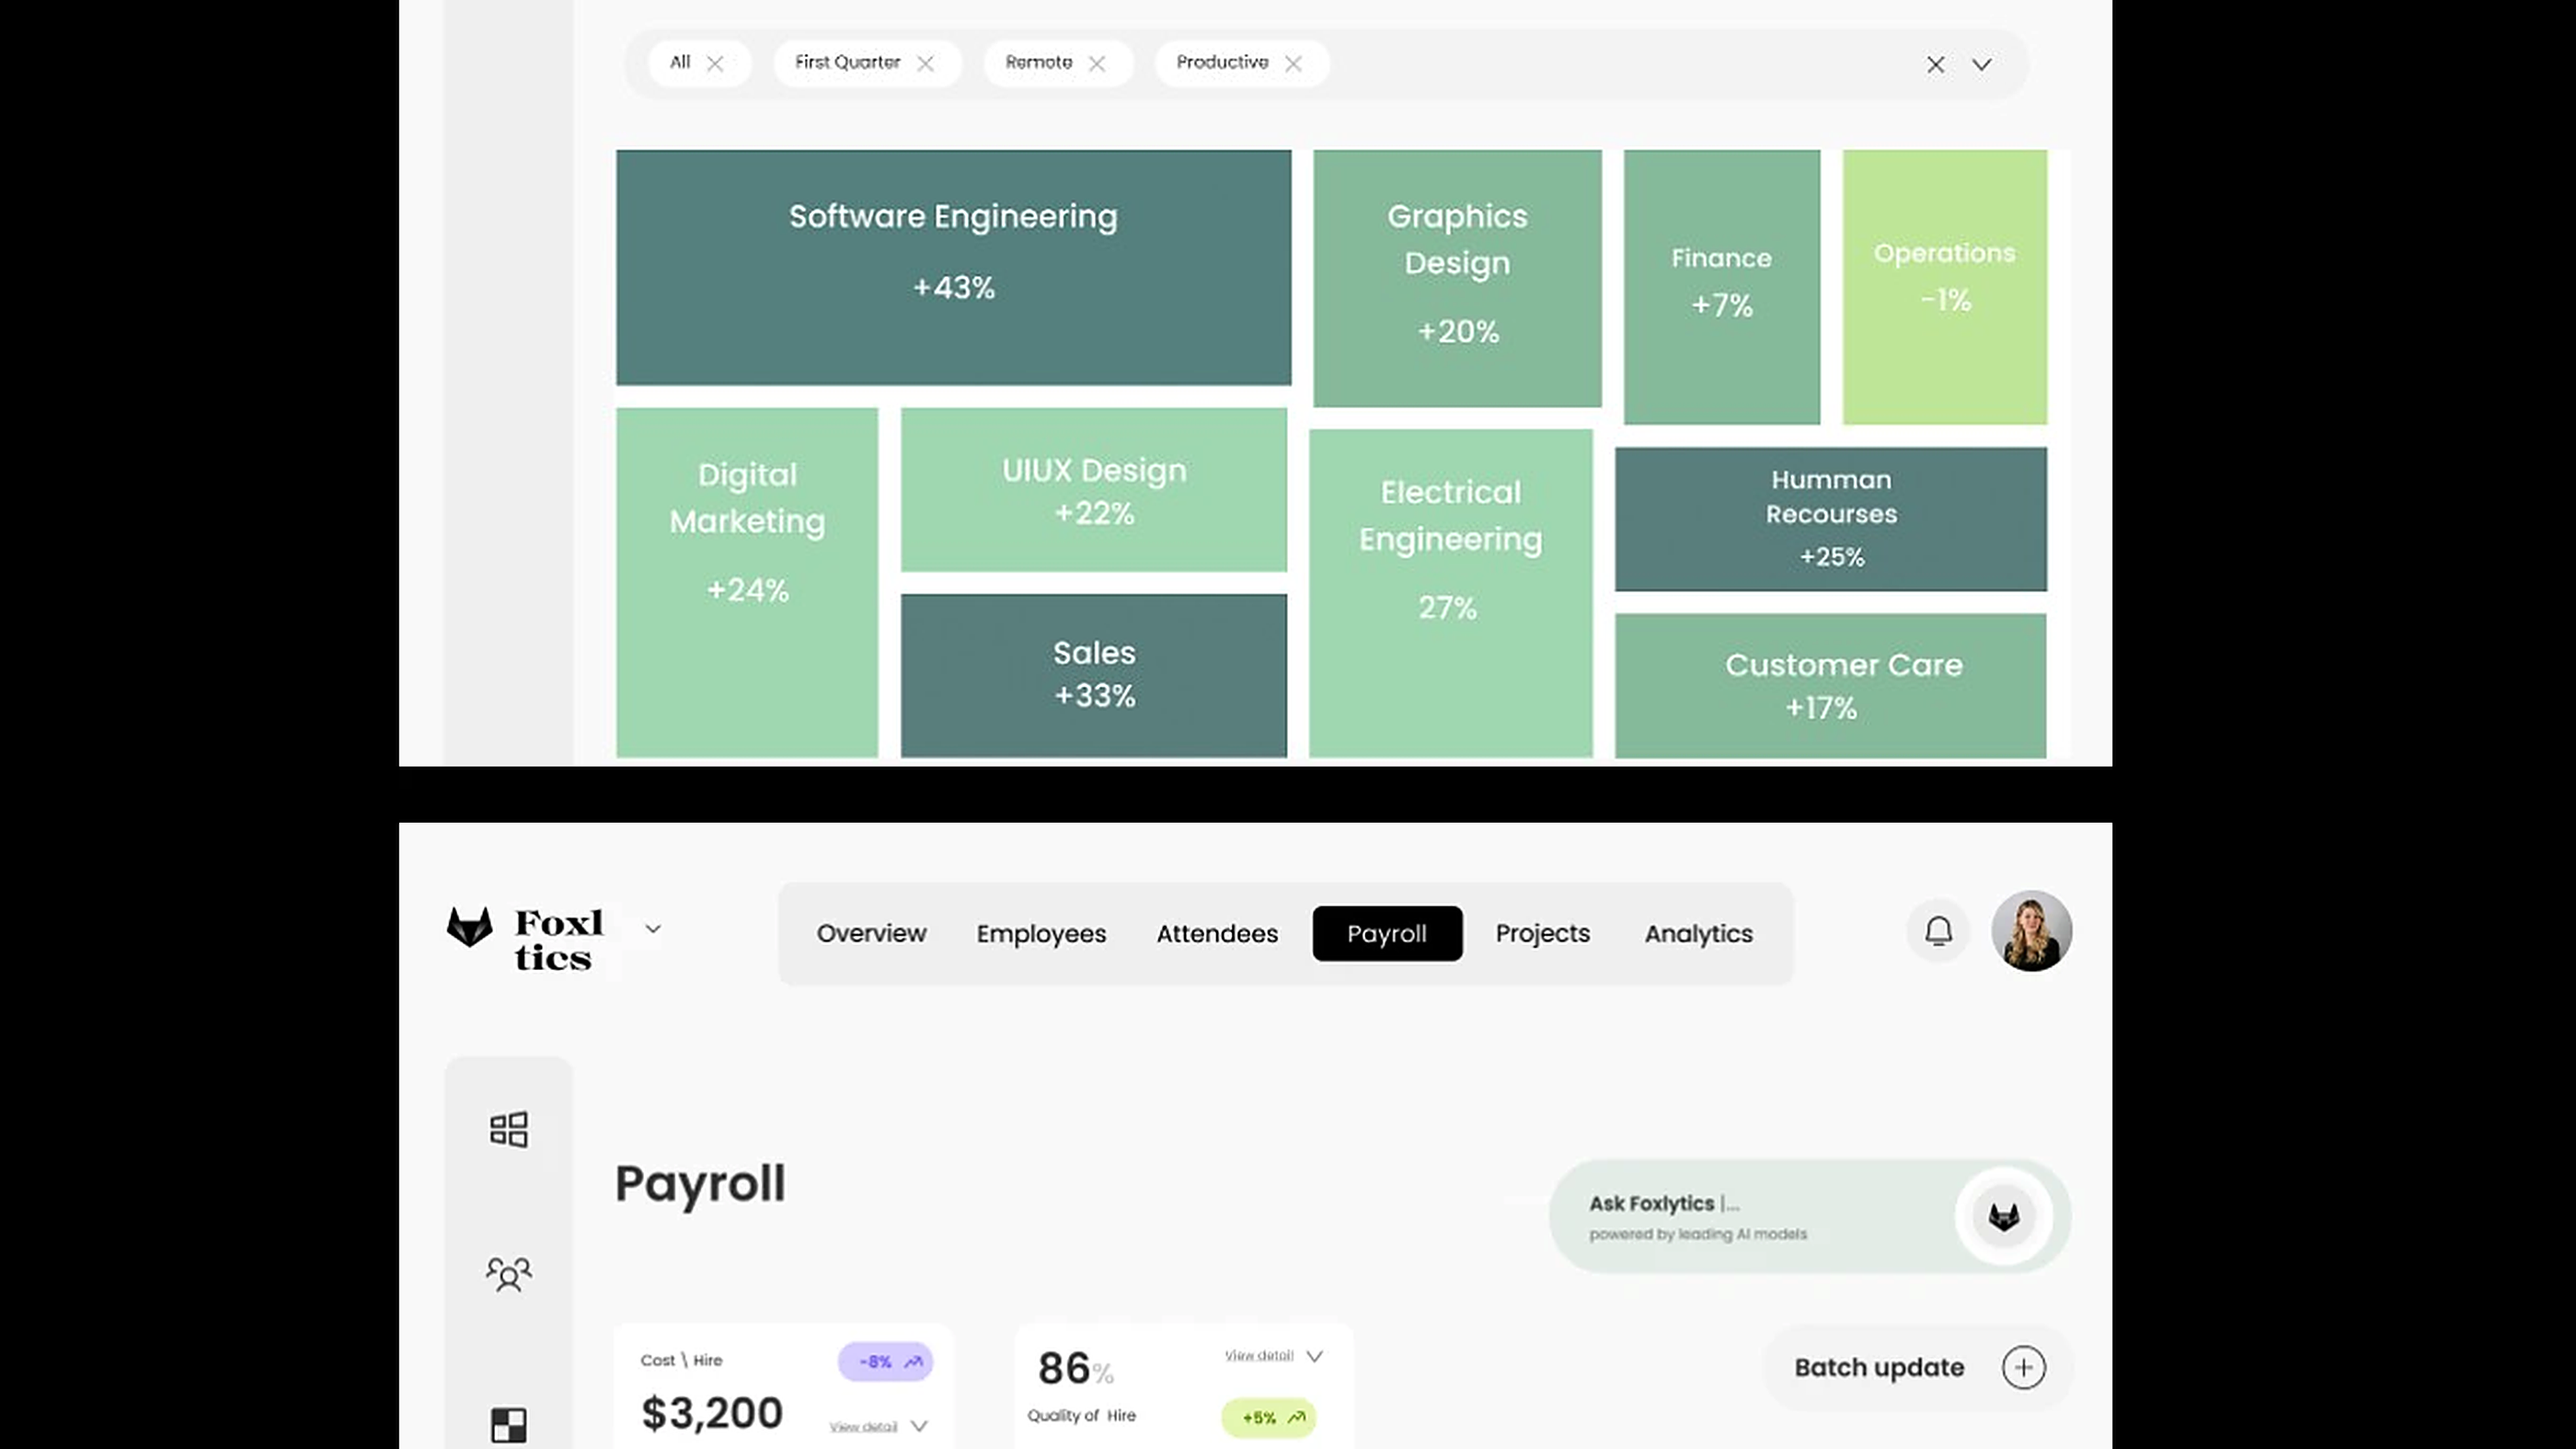
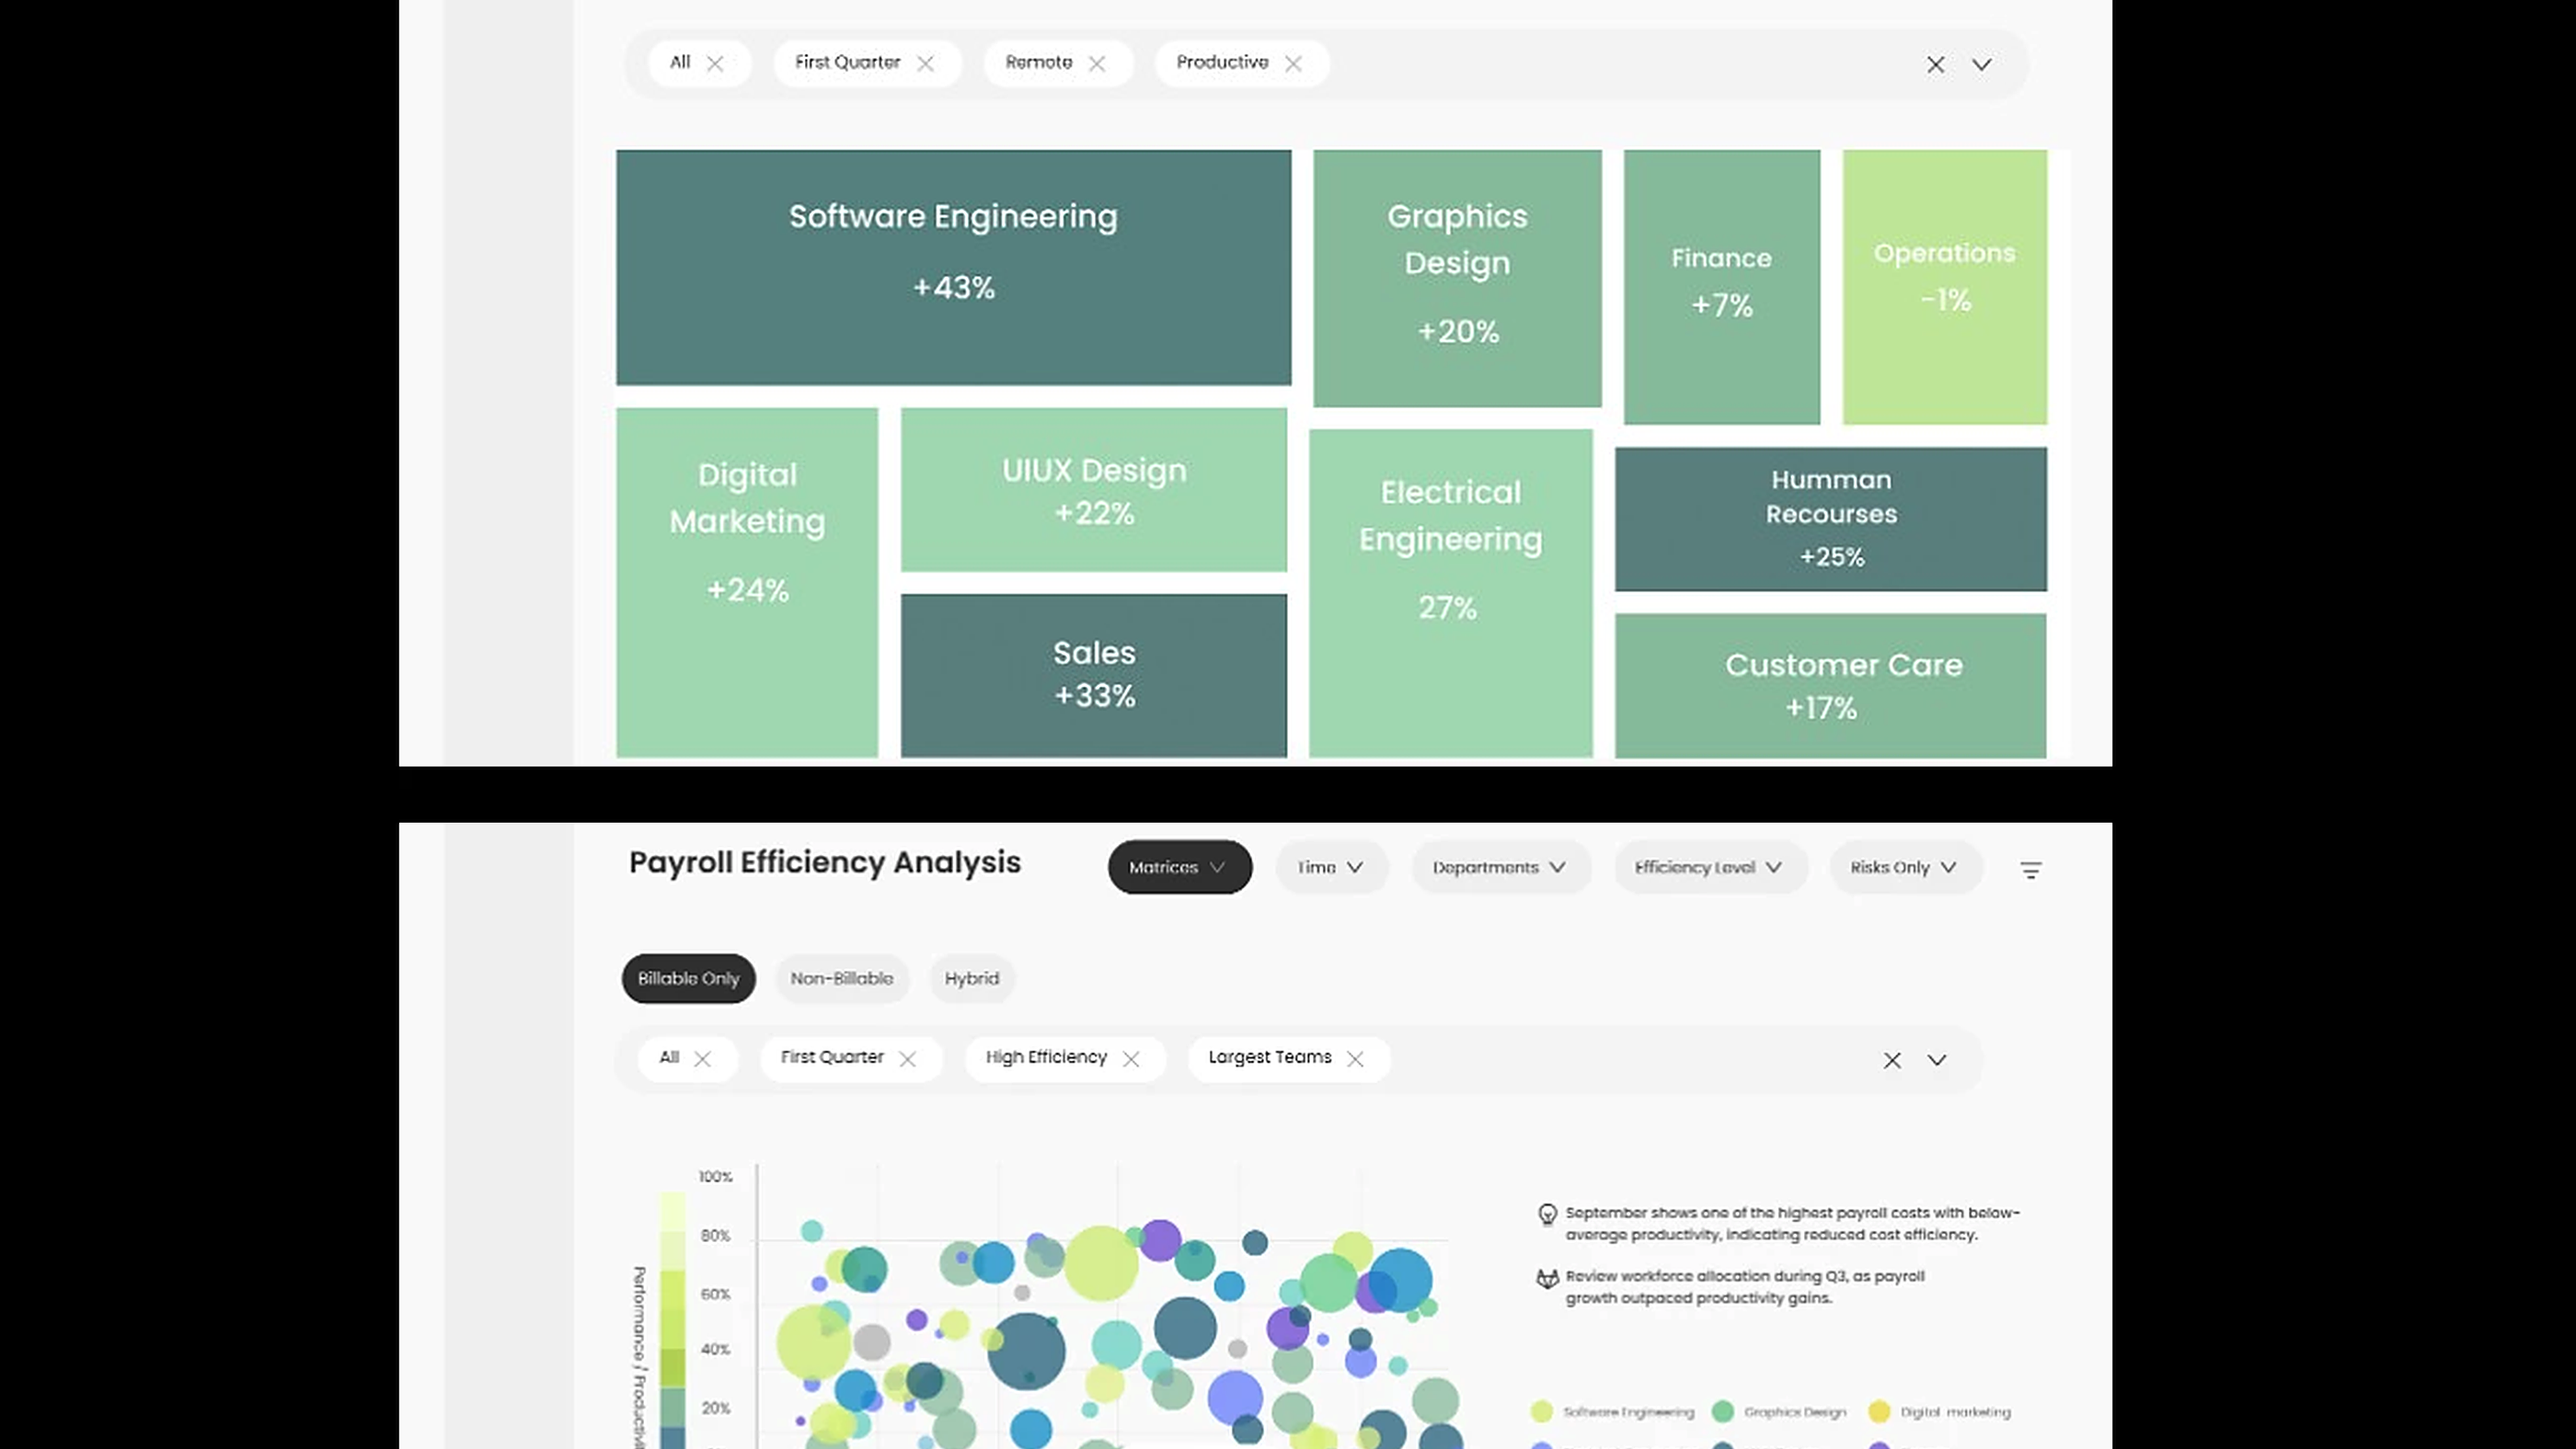
Stacked pages: bottom page now shows Payroll's first chart (efficiency analysis)
Claude-Session: https://claude.ai/code/session_01FdYAnoP1AuAPuCnLWf7gdc

diff --git a/behance-cover/mockups/set26.py b/behance-cover/mockups/set26.py
@@ -1,10 +1,10 @@
 # Two stacked web pages on black ("stack", 216): top page = Analytics from its Productive Heat Map,
-# bottom page = Payroll from the top (runs off the bottom edge). Upwork 4:3 (1000, 2000 JPEG;
+# bottom page = Payroll's first chart (Payroll Efficiency Analysis). Upwork 4:3 (1000, 2000 JPEG;
 # 4000 PNG + JPEG) and Behance artboard 16:9 (1400, 2800).
 from PIL import Image, ImageFilter
 I = '/tmp/claude-0/-home-user-claude-Ai-website-1/fd49522e-f0ff-52ed-b6c7-08cca43cc4fd/images/'
 base = Image.open(I + '216.webp').convert('RGB')
-PAGES = [('218.jpg', 815, (248, 0, 1312, 626)), ('217.webp', 0, (248, 661, 1312, 1200))]
+PAGES = [('218.jpg', 815, (248, 0, 1312, 626)), ('217.webp', 1062, (248, 661, 1312, 1200))]
 def tone(p, k): return p.point(lambda v: round(255 * (v / 255) ** 1.12)).filter(ImageFilter.UnsharpMask(radius=0.7 * k, percent=90, threshold=2))
 for F in (1, 2, 2.5):
     W, H = round(1600 * F), round(1200 * F); out = base.resize((W, H), Image.LANCZOS)
